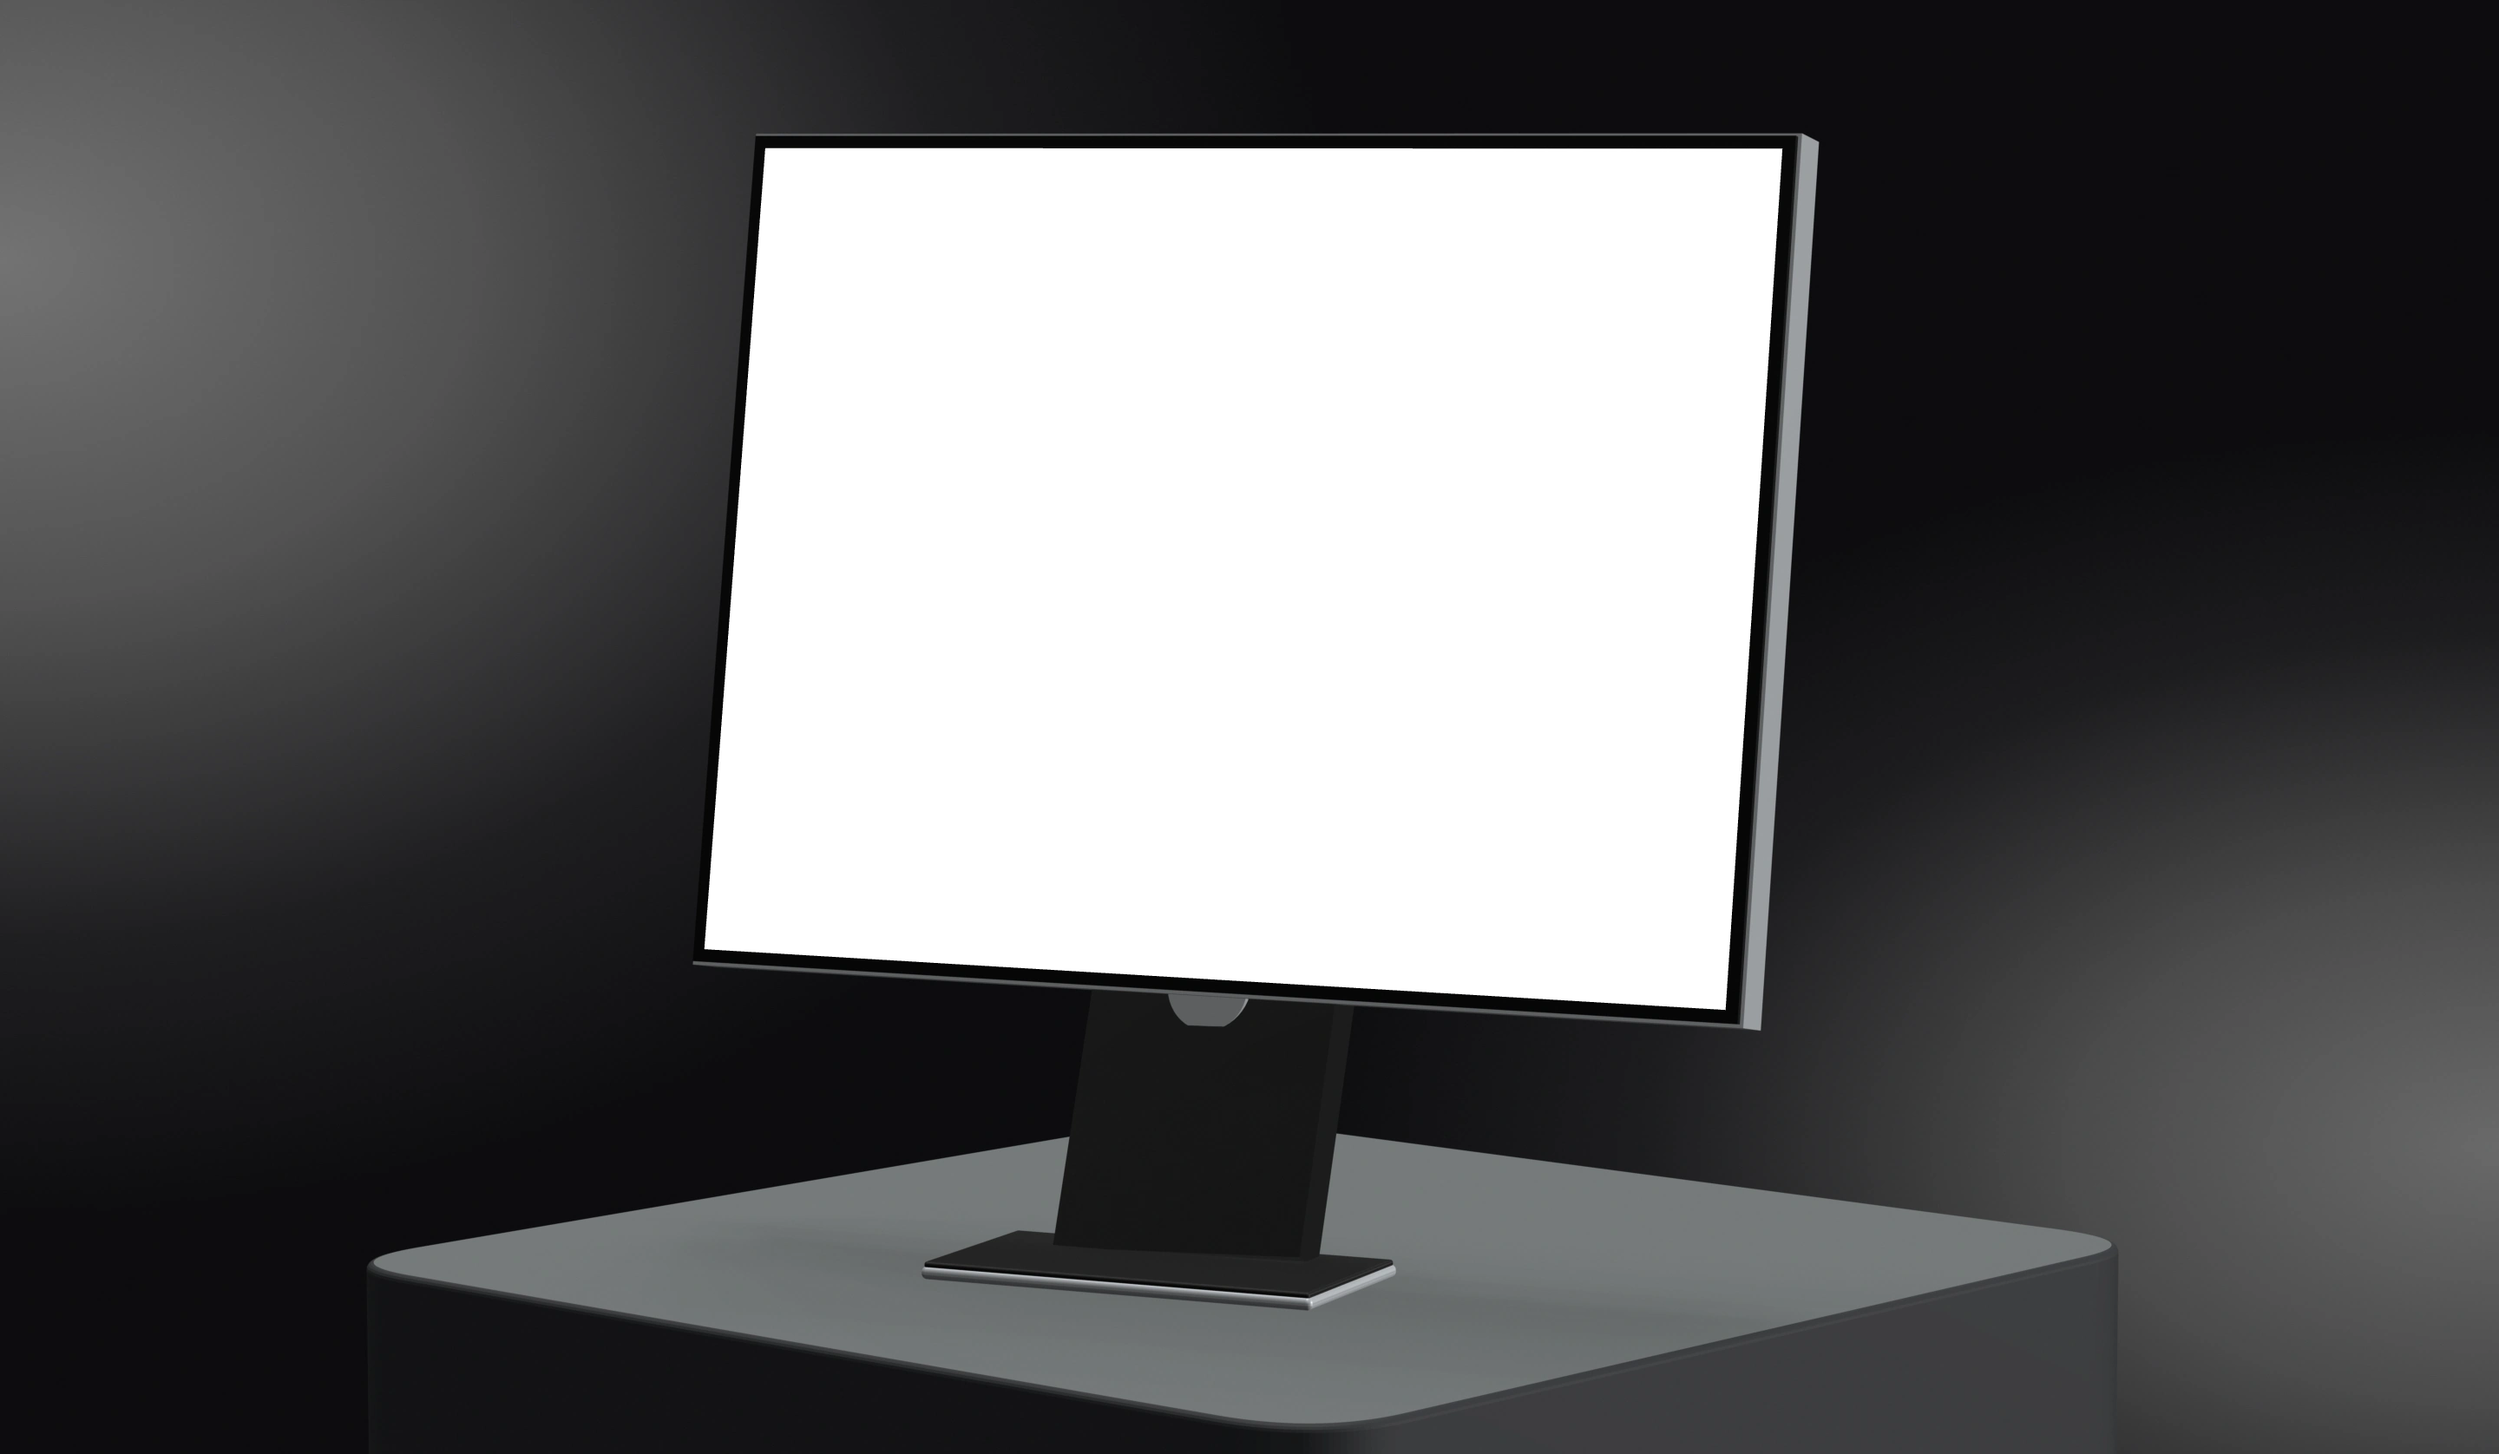
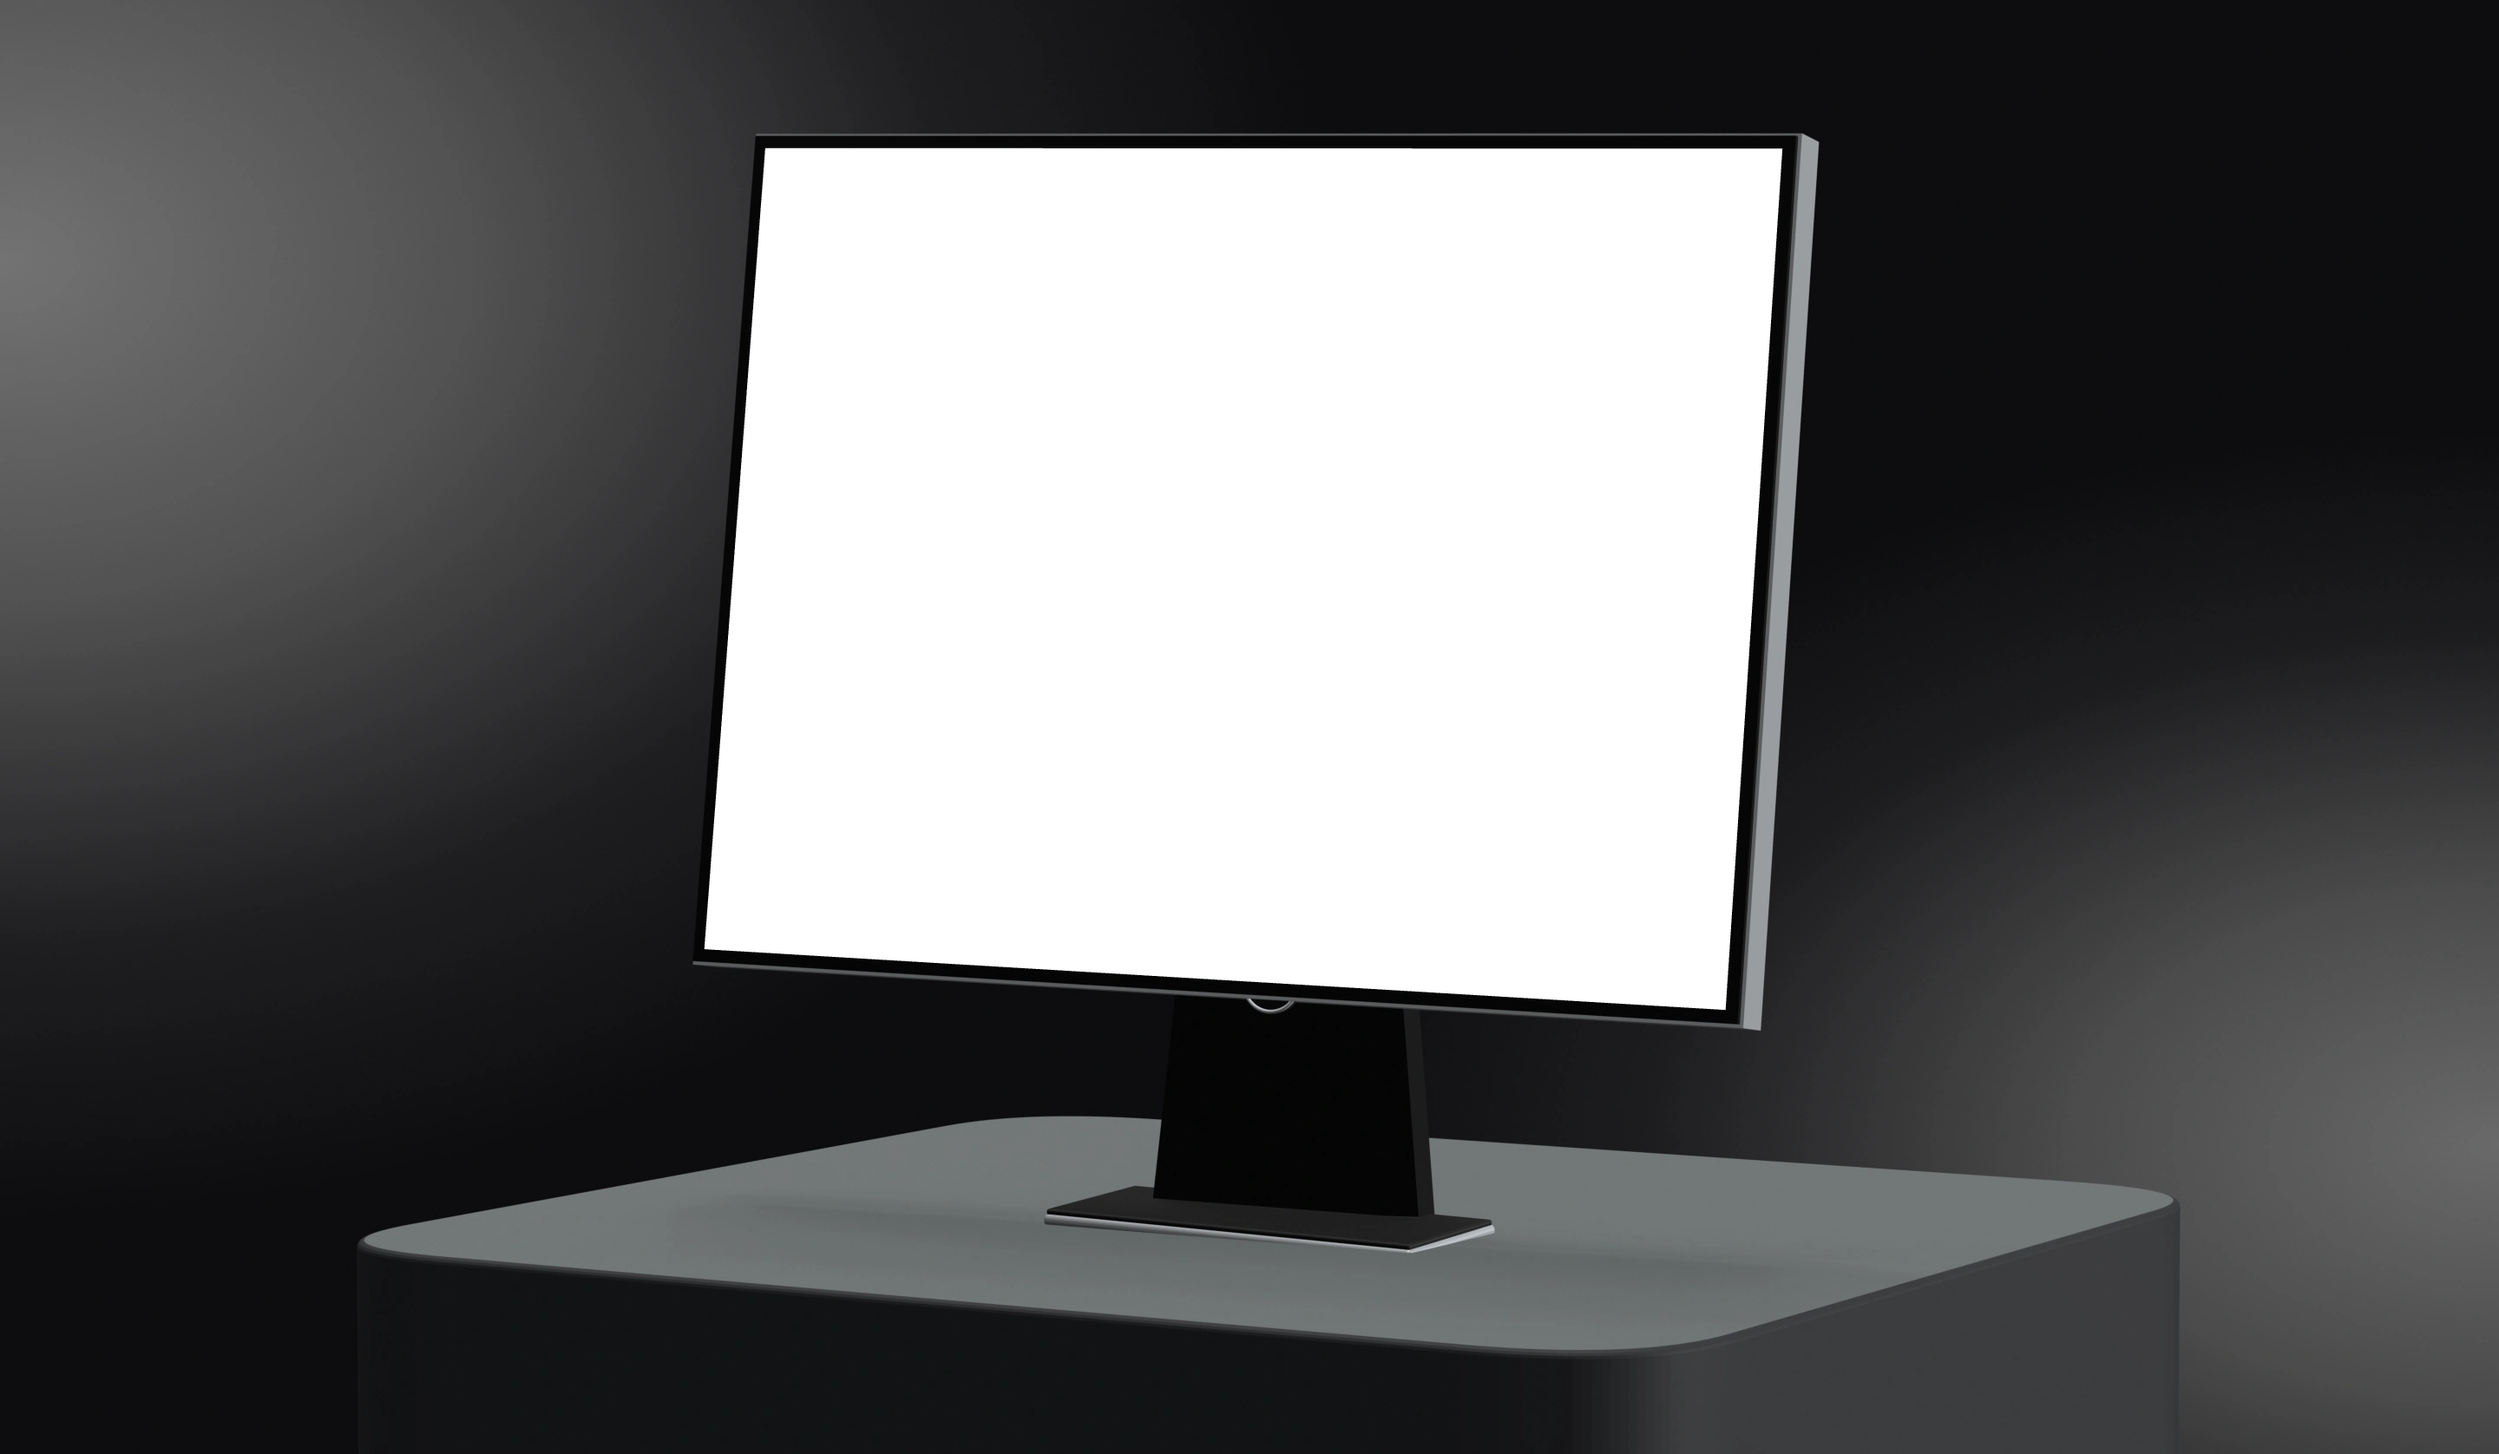
Devsign cover: plinth, foot, neck and hinge fitted to Metalab's frame

Changed region(s): [[0.125, 0.7446, 0.875, 1.0], [0.4688, 0.6826, 0.5, 0.7136]]

diff --git a/scripts/cover-3d/scene.html b/scripts/cover-3d/scene.html
@@ -14,21 +14,25 @@ const rig=new THREE.Group();rig.rotation.y=P.yaw;s.add(rig);
 const M=(c,ro,me=0)=>new THREE.MeshStandardMaterial({color:c,roughness:ro,metalness:me});
 const add=(g,m,p,par=rig)=>{const o=new THREE.Mesh(g,m);o.position.set(...p);o.castShadow=o.receiveShadow=true;par.add(o);return o};
 const pl=P.pl;
-{const sh2=new THREE.Shape(),w=pl[0]/2,d=pl[2]/2,c=.2;sh2.moveTo(-w+c,-d);sh2.lineTo(w-c,-d);sh2.quadraticCurveTo(w,-d,w,-d+c);sh2.lineTo(w,d-c);sh2.quadraticCurveTo(w,d,w-c,d);sh2.lineTo(-w+c,d);sh2.quadraticCurveTo(-w,d,-w,d-c);sh2.lineTo(-w,-d+c);sh2.quadraticCurveTo(-w,-d,-w+c,-d);
+{const sh2=new THREE.Shape(),w=pl[0]/2,d=pl[2]/2,c=.3;sh2.moveTo(-w+c,-d);sh2.lineTo(w-c,-d);sh2.quadraticCurveTo(w,-d,w,-d+c);sh2.lineTo(w,d-c);sh2.quadraticCurveTo(w,d,w-c,d);sh2.lineTo(-w+c,d);sh2.quadraticCurveTo(-w,d,-w,d-c);sh2.lineTo(-w,-d+c);sh2.quadraticCurveTo(-w,-d,-w+c,-d);
 const g=new THREE.ExtrudeGeometry(sh2,{depth:pl[1],bevelEnabled:true,bevelThickness:.012,bevelSize:.012,bevelSegments:4,curveSegments:32});g.rotateX(Math.PI/2);
-const o=new THREE.Mesh(g,[M(P.plc,.55),M(P.pls,.7)]);o.position.set(P.px||0,P.py,P.pz||0);o.rotation.y=P.pyaw;o.castShadow=o.receiveShadow=true;s.add(o);}
+const o=new THREE.Mesh(g,[M(P.plc,.55),M(P.pls,.7)]);o.position.set(P.px||0,P.py,P.pz||0);o.rotation.y=P.pyaw;o.rotation.x=P.ptilt;o.castShadow=o.receiveShadow=true;s.add(o);}
 const mon=new THREE.Group();mon.position.set(...P.mon);mon.rotation.x=P.tilt;rig.add(mon);
 const sw=1.92,sh=1.43,bz=.022,th=.085,bw=sw+bz*2,bh=sh+bz*2;
 const black=M('#050506',.35),silver=M('#c8ccd0',.38,.35);
 add(new THREE.BoxGeometry(bw+.012,bh+.012,th),silver,[0,0,-th/2-.006],mon);
 add(new THREE.BoxGeometry(bw,bh,.012),black,[0,0,.0],mon);
-add(new THREE.CylinderGeometry(.075,.075,.02,48),silver,[0,-sh*.5-.012,-.05],mon).rotation.x=Math.PI/2;
-const footY=.011;add(new RB(P.fs[0],.022,P.fs[1],6,.01),silver,[P.foot[0],P.py+footY+.012,P.foot[1]]);
-add(new RB(P.fs[0]-.01,.012,P.fs[1]-.01,6,.005),black,[P.foot[0],P.py+.036,P.foot[1]]);
+add(new THREE.CylinderGeometry(.052,.052,.02,48),M('#08080a',.4),[P.nx,-sh*.5+.004,-.05],mon).rotation.x=Math.PI/2;
+add(new THREE.TorusGeometry(.052,.0035,10,48,Math.PI),M('#dfe2e5',.3,.2),[P.nx,-sh*.5+.004,-.037],mon).rotation.z=Math.PI;
+const footY=.011,fy=P.pyaw-P.yaw;
+add(new RB(P.fs[0],.022,P.fs[1],6,.01),silver,[P.foot[0],P.py+footY+.012,P.foot[1]]).rotation.y=fy;
+add(new RB(P.fs[0]-.01,.012,P.fs[1]-.01,6,.005),black,[P.foot[0],P.py+.036,P.foot[1]]).rotation.y=fy;
 // neck joins foot to the monitor
 const nb=mon.localToWorld(new THREE.Vector3(0,-sh*.43,-.14));s.updateMatrixWorld(true);
-const neck=add(new THREE.BoxGeometry(.46,1,.08),black,[0,0,0]);
-{const a=rig.worldToLocal(mon.localToWorld(new THREE.Vector3(0,-sh*.42,-.13))),b=new THREE.Vector3(P.foot[0],P.py+.03,P.foot[1]-.1);neck.position.copy(a.clone().add(b).multiplyScalar(.5));neck.scale.y=a.distanceTo(b);neck.quaternion.setFromUnitVectors(new THREE.Vector3(0,1,0),a.clone().sub(b).normalize());}
+const ns=new THREE.Shape();ns.moveTo(-P.nb/2,-.5);ns.lineTo(P.nb/2,-.5);ns.lineTo(P.nt/2,.5);ns.lineTo(-P.nt/2,.5);ns.closePath();
+const ng=new THREE.ExtrudeGeometry(ns,{depth:.07,bevelEnabled:false});ng.translate(0,0,-.035);
+const neck=add(ng,black,[0,0,0]);
+{const a=rig.worldToLocal(mon.localToWorld(new THREE.Vector3(P.nx,-sh*.42,-.13))),b=new THREE.Vector3(P.foot[0],P.py+.03,P.foot[1]-.1);neck.position.copy(a.clone().add(b).multiplyScalar(.5));neck.scale.y=a.distanceTo(b);neck.quaternion.setFromUnitVectors(new THREE.Vector3(0,1,0),a.clone().sub(b).normalize());}
 const key=new THREE.DirectionalLight('#fff',P.key);key.castShadow=true;key.shadow.mapSize.set(2048,2048);Object.assign(key.shadow.camera,{left:-5,right:5,top:5,bottom:-5,near:.1,far:30});key.shadow.bias=-.0004;key.shadow.normalBias=.02;s.add(key,key.target);
 const fill=new THREE.DirectionalLight('#fff',P.fill);fill.position.set(-1,10,1.5);s.add(fill);
 const rim=new THREE.DirectionalLight('#fff',P.rim);rim.position.set(...P.rimp);s.add(rim);
